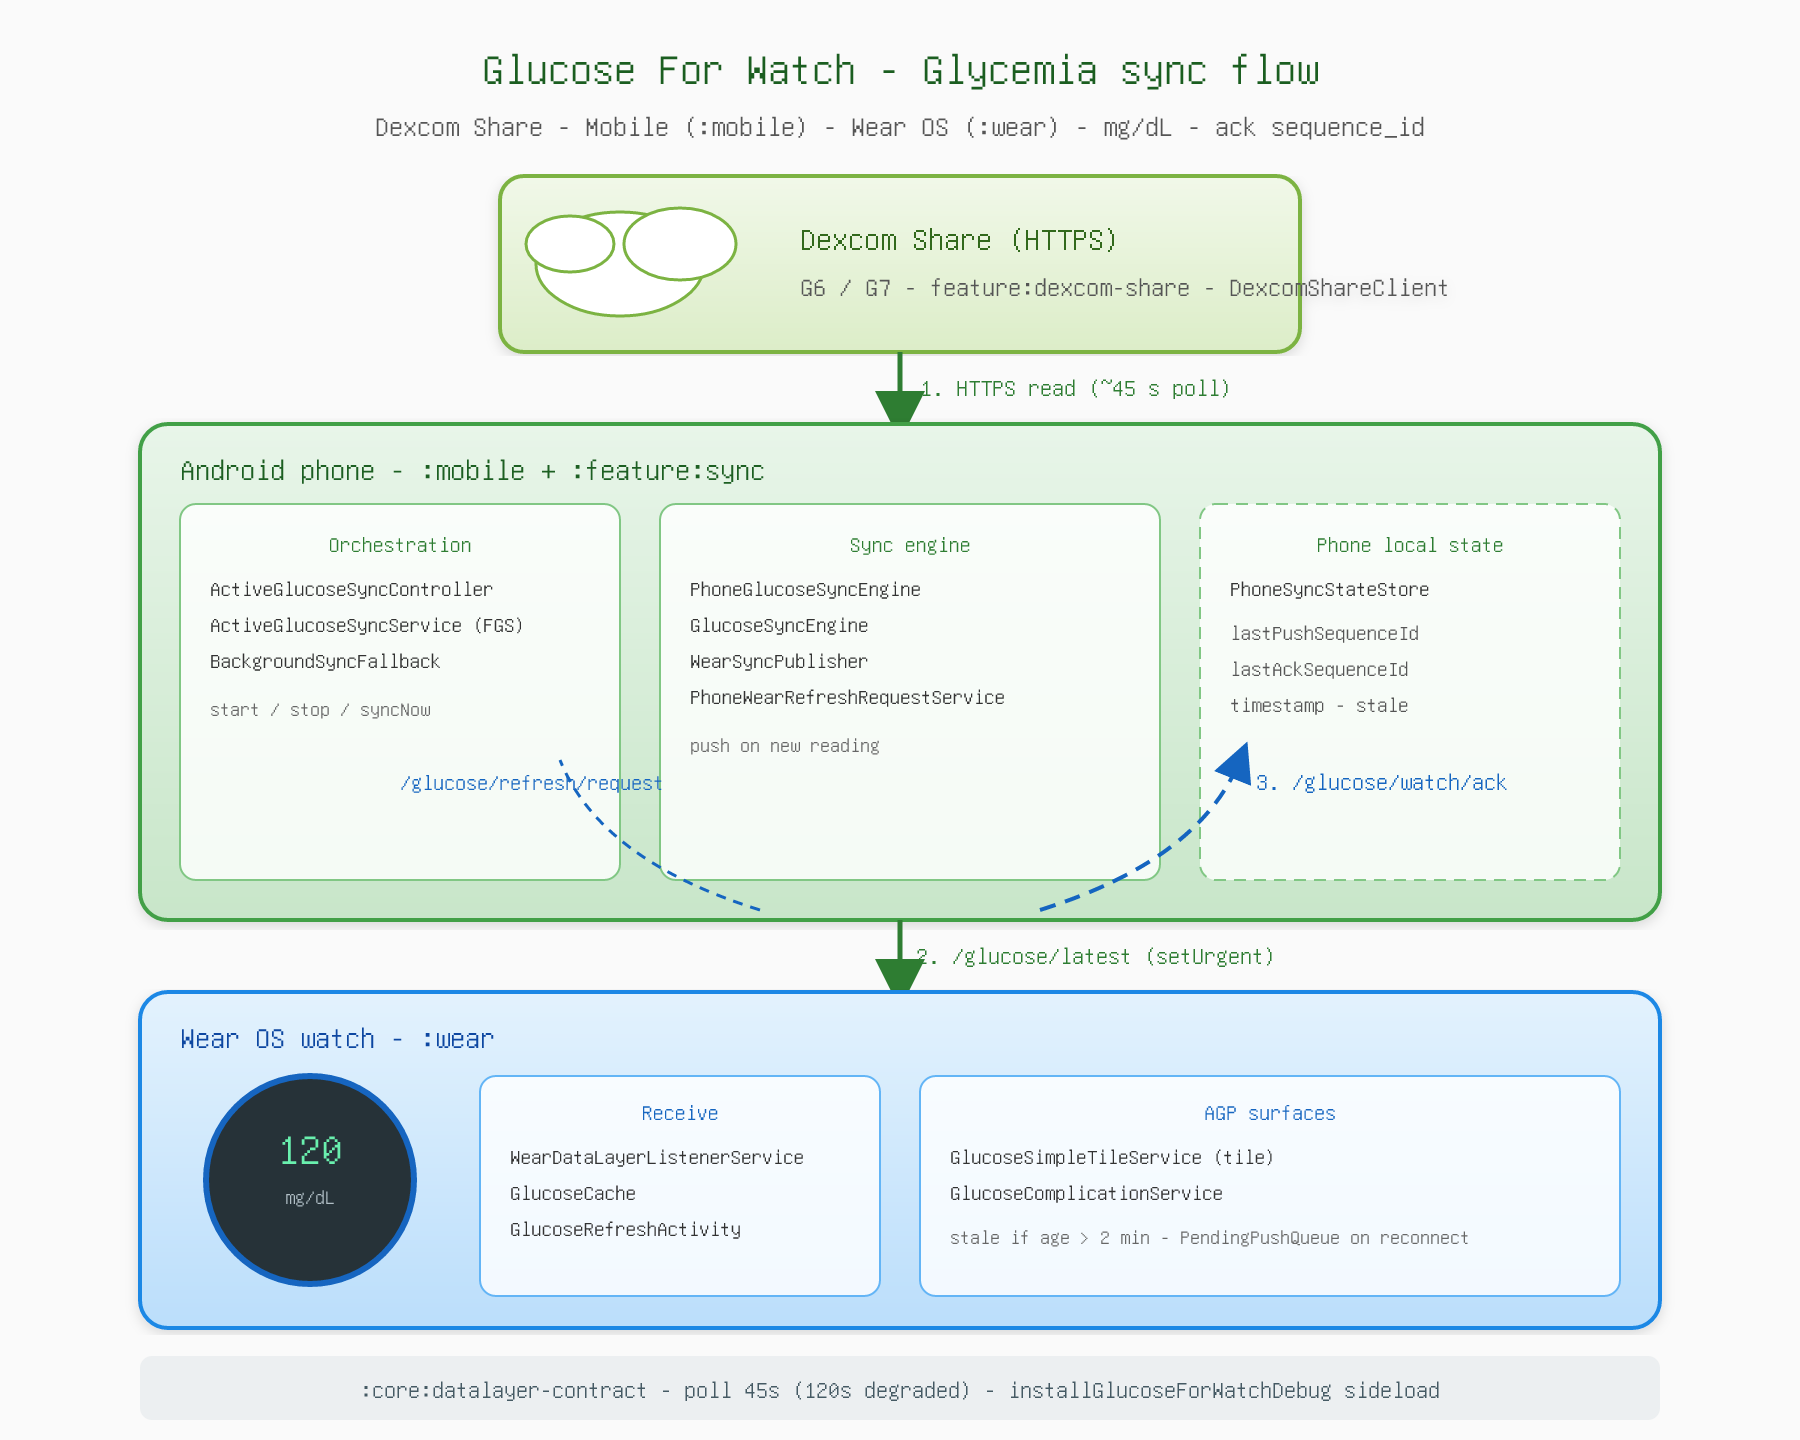
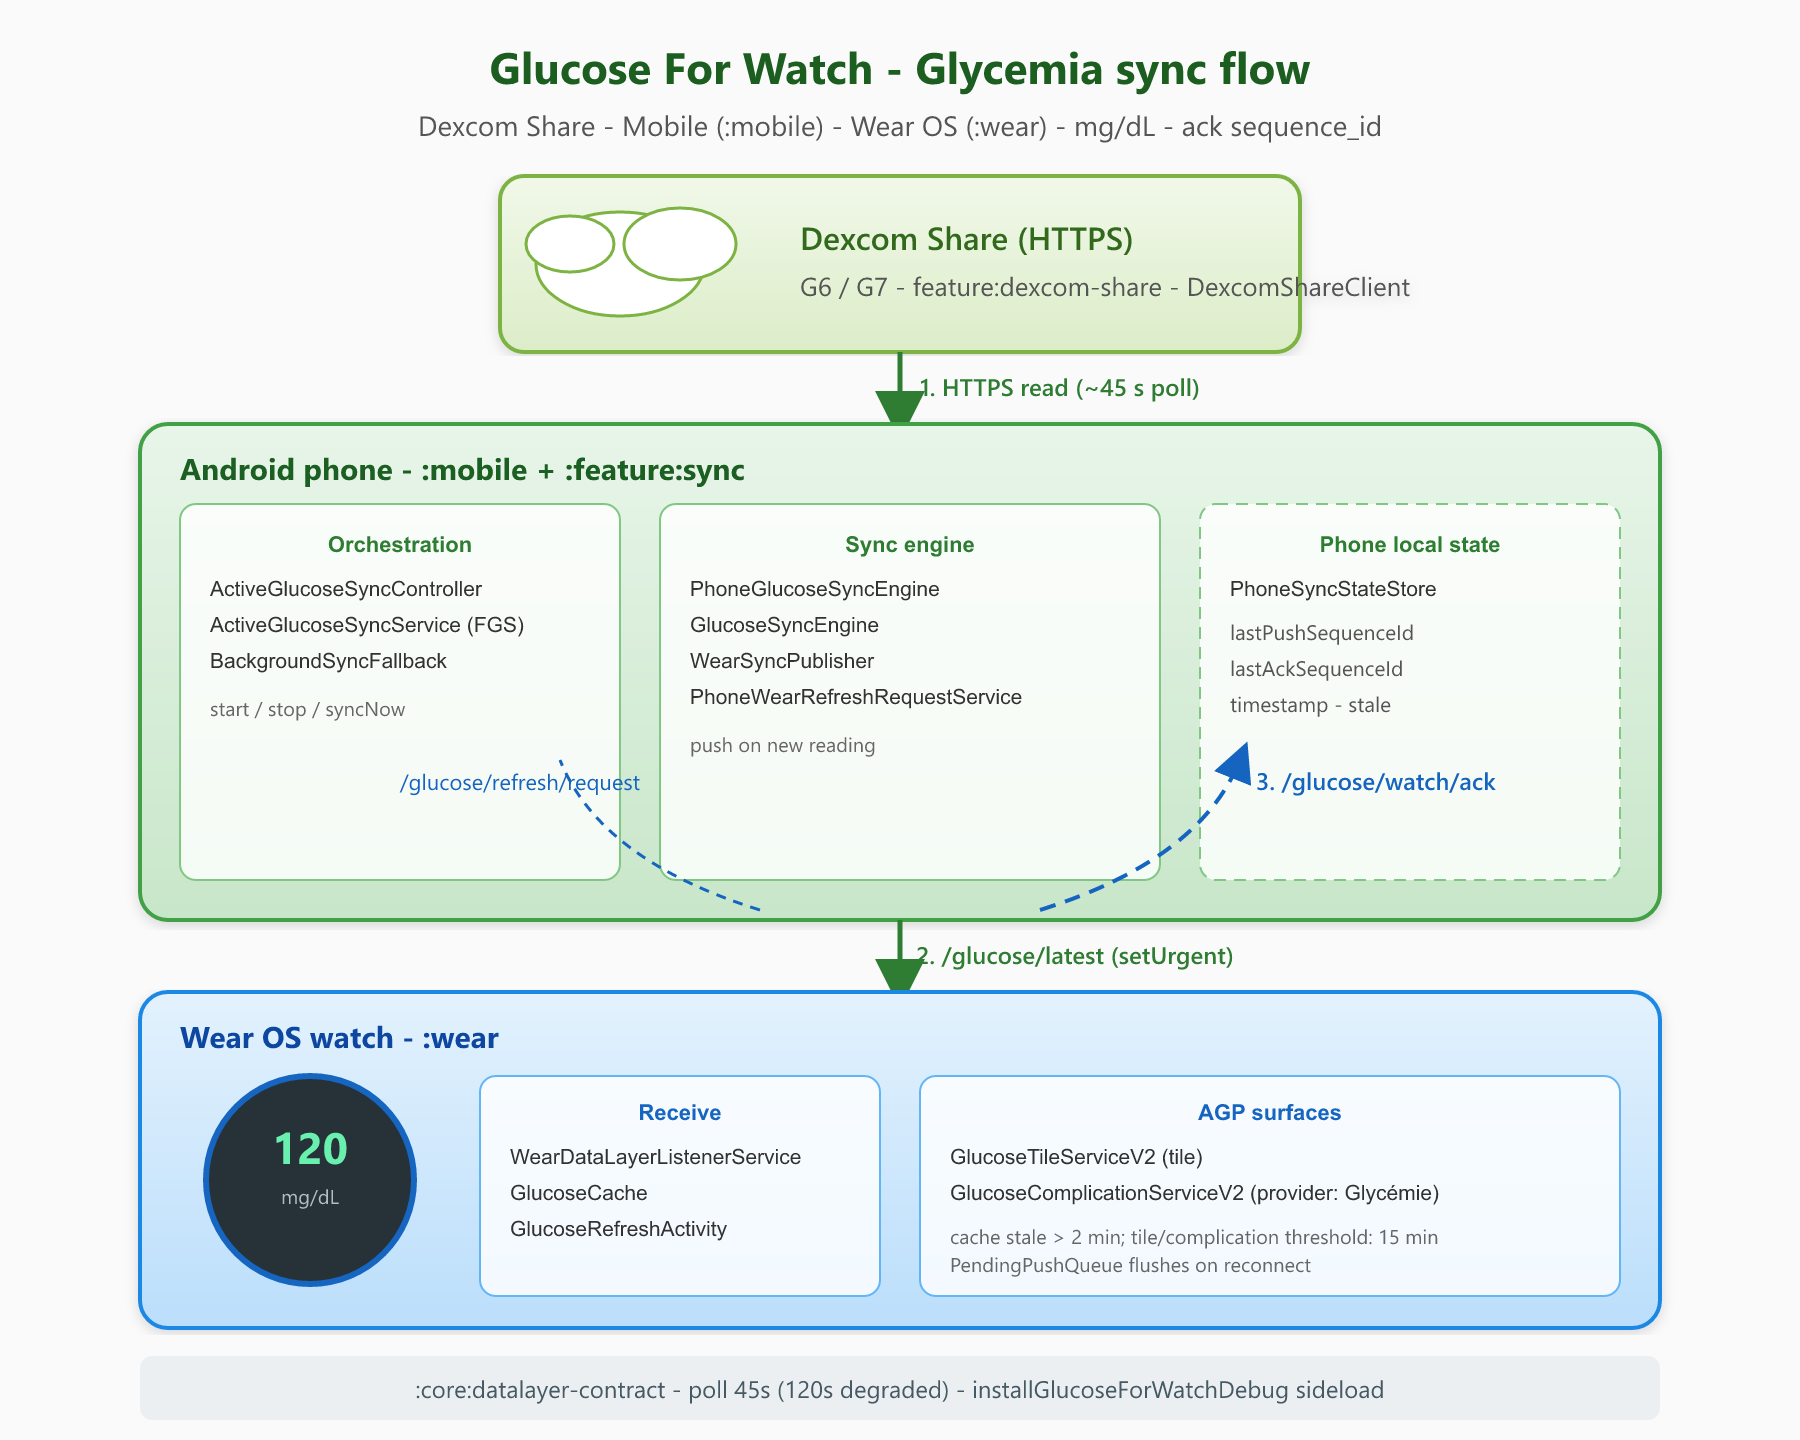
Refactor glucose watch components and update documentation
- Updated glucose range color definitions in SKILL.md for clarity.
- Revised sync health reviewer documentation to reflect changes in sync service behavior and timing.
- Modified toxy theme maintainer instructions to reference new tile chrome implementation.
- Bumped AGP and Gradle versions in README.md and setup documentation.
- Updated architecture diagrams and documentation to clarify sync flow and cache behavior.
- Enhanced user guide with detailed Dexcom Share account handling and error management.
- Refined complication and tile service implementations to improve user experience and consistency.
- Adjusted linting scripts to accommodate new file structures and naming conventions.
- Improved comments and documentation across various Kotlin files for better maintainability.

diff --git a/wear/src/main/java/com/glucoseforwatch/wear/tile/ToxyTileTheme.kt b/wear/src/main/java/com/glucoseforwatch/wear/tile/ToxyTileTheme.kt
@@ -8,22 +8,20 @@ import com.glucoseforwatch.wear.data.GlucoseSnapshot
 import kotlin.math.min
 
 /**
- * Chrome tokens and AGP glucose coloring for the Wear tile.
+ * Shared Wear surface-model colors and legacy layout tokens.
  *
- * Layout metrics adapt padding/typography to [screenWidthDp] and [screenShape].
- * Sync button and glucose/trend slots use **fixed** dp sizes so data changes
- * (value digits, trend presence, sync lock) do not shift the ProtoLayout.
+ * The ProtoLayout tile is rendered independently by [GlucoseTileChrome].
  *
  * Medical value colors come only from [AgpGlucoseColors] / [GlucoseRangeResolver]
  * — never Material primary / blue chrome.
  */
 @Keep
 object ToxyTileTheme {
-    /** Bump on every ProtoLayout / resource-map change to bust Wear tile resource cache. */
+    /** Legacy token; the active ProtoLayout cache version is [GlucoseTileChrome.RESOURCES_VERSION]. */
     const val RESOURCES_VERSION = "simple-tile-v22-GlucoseTileServiceV2-zero-ghost"
     const val FRESHNESS_INTERVAL_MS = 45_000L
     const val COMPLICATION_REFRESH_INTERVAL_MS = 15_000L
-    /** Clickable id — bumped with V2 provider to avoid stale click routing. */
+    /** Legacy click ID; the active tile uses [GlucoseTileChrome.SYNC_CLICK_ID]. */
     const val SYNC_CLICK_ID = "sync_v2"
 
     const val BACKGROUND = 0xFF0F1419.toInt()

diff --git a/mobile/src/main/java/com/glucoseforwatch/mobile/sync/ActiveGlucoseSyncService.kt b/mobile/src/main/java/com/glucoseforwatch/mobile/sync/ActiveGlucoseSyncService.kt
@@ -23,7 +23,11 @@ import kotlinx.coroutines.sync.Mutex
 import kotlinx.coroutines.sync.withLock
 import kotlin.math.min
 
-/** Foreground service polling Dexcom and pushing readings to the watch. */
+/**
+ * Foreground service polling Dexcom and pushing readings to the watch.
+ * Failed passes retry silently with exponential backoff before the failure
+ * policy surfaces a notification.
+ */
 class ActiveGlucoseSyncService : Service() {
     private val serviceScope = CoroutineScope(SupervisorJob() + Dispatchers.IO)
     private val syncMutex = Mutex()

diff --git a/wear/src/main/java/com/glucoseforwatch/wear/tile/GlucoseTileServiceV2.kt b/wear/src/main/java/com/glucoseforwatch/wear/tile/GlucoseTileServiceV2.kt
@@ -8,6 +8,10 @@ import com.glucoseforwatch.wear.data.GlucoseCache
 import com.google.common.util.concurrent.Futures
 import com.google.common.util.concurrent.ListenableFuture
 
+/**
+ * Serves the glucose tile from the Wear cache; the launcher preview icon is
+ * intentionally separate from this text-first tile content.
+ */
 class GlucoseTileServiceV2 : TileService() {
 
     override fun onTileRequest(requestParams: RequestBuilders.TileRequest): ListenableFuture<TileBuilders.Tile> {

diff --git a/feature/sync/src/main/java/com/glucoseforwatch/feature/sync/SyncFailurePolicy.kt b/feature/sync/src/main/java/com/glucoseforwatch/feature/sync/SyncFailurePolicy.kt
@@ -9,7 +9,7 @@ enum class SyncNotificationAction {
 /**
  * Decides whether a failed sync should surface a reconnect or interrupted notification.
  *
- * Auth failures need two consecutive AUTH errors; other failures need three in a row.
+ * Notify at exactly two consecutive AUTH errors or three consecutive sync failures.
  */
 object SyncFailurePolicy {
     fun decideNotificationAction(

diff --git a/feature/dexcom-share/src/main/java/com/glucoseforwatch/feature/dexcomshare/DexcomShareClient.kt b/feature/dexcom-share/src/main/java/com/glucoseforwatch/feature/dexcomshare/DexcomShareClient.kt
@@ -60,7 +60,8 @@ class DexcomShareException(
 /**
  * Fetches the latest glucose reading from Dexcom Share over HTTPS.
  *
- * Sessions are cached per account; readings older than two minutes are marked stale.
+ * Sessions are cached per account and renewed once when Dexcom reports expiry.
+ * Readings older than two minutes are marked stale.
  */
 
 class DexcomShareClient(

diff --git a/wear/src/main/java/com/glucoseforwatch/wear/complication/GlucoseComplicationServiceV2.kt b/wear/src/main/java/com/glucoseforwatch/wear/complication/GlucoseComplicationServiceV2.kt
@@ -15,6 +15,7 @@ import com.glucoseforwatch.wear.data.GlucoseCache
 import java.util.concurrent.TimeUnit
 import com.glucoseforwatch.wear.data.GlucoseSnapshot
 
+/** The sole registered glucose complication provider, labelled "Glycémie". */
 @Keep
 class GlucoseComplicationServiceV2 : ComplicationDataSourceService() {
 

diff --git a/toxy-ux-kit/tools/lint-agp-colors.py b/toxy-ux-kit/tools/lint-agp-colors.py
@@ -20,8 +20,10 @@ GLUCOSE_KT_GLOBS = [
     "mobile/src/main/java/com/glucoseforwatch/mobile/ui/HomeStateMapper.kt",
     "mobile/src/main/java/com/glucoseforwatch/mobile/ui/compose/HomeScreen.kt",
     "wear/src/main/java/com/glucoseforwatch/wear/tile/ToxyTileTheme.kt",
+    "wear/src/main/java/com/glucoseforwatch/wear/tile/GlucoseTileChrome.kt",
+    "wear/src/main/java/com/glucoseforwatch/wear/tile/GlucoseSimpleTileLayout.kt",
     "wear/src/main/java/com/glucoseforwatch/wear/tile/GlucoseTileServiceV2.kt",
-    "wear/src/main/java/com/glucoseforwatch/wear/complication/GlucoseComplicationService.kt",
+    "wear/src/main/java/com/glucoseforwatch/wear/complication/GlucoseComplicationServiceV2.kt",
     "wear/src/main/java/com/glucoseforwatch/wear/display/WearGlucoseSurfaceModel.kt",
     "wear/src/main/java/com/glucoseforwatch/wear/data/GlucoseCache.kt",
     "wear/src/main/java/com/glucoseforwatch/wear/ui/WearStatusScreen.kt",
@@ -31,6 +33,7 @@ GLUCOSE_KT_GLOBS = [
 REQUIRED_RESOLVER = {
     ROOT / "mobile/src/main/java/com/glucoseforwatch/mobile/ui/HomeStateMapper.kt": "GlucoseRangeResolver",
     ROOT / "wear/src/main/java/com/glucoseforwatch/wear/tile/ToxyTileTheme.kt": "GlucoseRangeResolver",
+    ROOT / "wear/src/main/java/com/glucoseforwatch/wear/tile/GlucoseTileChrome.kt": "GlucoseRangeResolver",
     ROOT / "wear/src/main/java/com/glucoseforwatch/wear/data/GlucoseCache.kt": "GlucoseRangeResolver",
 }
 

diff --git a/docs/dev/architecture.md b/docs/dev/architecture.md
@@ -18,8 +18,10 @@ Glucose For Watch syncs Dexcom Share glucose from a phone to a Wear OS companion
 | `:feature:dexcom-share` | Dexcom Share HTTP client |
 | `:feature:watch-install` | Embedded wear APK install (debug) |
 
-The phone app uses `com.glucoseforwatch.mobile` and the Wear app uses
-`com.glucoseforwatch.wear`, so both APKs can be installed independently.
+The modules have distinct source namespaces (`com.glucoseforwatch.mobile` and
+`com.glucoseforwatch.wear`), but both APKs currently use the application ID
+`com.glucoseforwatch.mobile`. Install the phone APK on the phone and the Wear
+APK on the watch; they are not two installable packages for the same device.
 
 ## Sync flow
 
@@ -54,8 +56,8 @@ All periodic sync scheduling goes through **`ActiveGlucoseSyncController`** — 
 
 | Mode | Interval |
 |------|----------|
-| Normal | 45 s |
-| Degraded | 120 s (low battery or `syncLimited`) |
+| Successful sync | 45 s (normal) or 120 s (low battery / `syncLimited`) |
+| Consecutive sync failures | Exponential backoff from 15 s, capped at 5 min |
 | Alarm fallback | 90 s |
 
 ### Manual refresh
@@ -69,9 +71,23 @@ All periodic sync scheduling goes through **`ActiveGlucoseSyncController`** — 
 
 - Phone keeps fetching Dexcom regardless of watch connectivity
 - Push fails silently when no connected nodes
-- Watch shows cached value, marked **stale** after 2 min
+- Dexcom readings and the Wear cache are flagged stale after 2 min
+- Tile visual staleness is based on reading age > 15 min; the complication uses
+  a placeholder when the reading is older than 15 min
 - `PendingPushQueue` flushes on reconnect; WorkManager catch-up as fallback
-- Unacked delivery: repush at 10/20/30 s (normal) or 20/45 s (degraded)
+- Unacked delivery: repush at 10/30/60/120 s (normal) or 20/45/90 s
+  (degraded)
+- Interrupted-sync notification appears after 3 consecutive failures;
+  Dexcom-auth notification appears after 2 consecutive authentication failures
+
+### Dexcom Share authentication
+
+The phone stores the user's Dexcom Share login details and region in encrypted
+preferences. `US` uses `share2.dexcom.com`; `OUS` uses
+`shareous1.dexcom.com`. A cached session is renewed once automatically when
+Dexcom reports it expired. Reading timestamps older than 2 minutes are flagged
+stale; that source/cache flag is distinct from the 15-minute Wear surface
+display thresholds above.
 
 ## Data Layer contract
 
@@ -96,7 +112,7 @@ Source: `core/datalayer-contract/.../GlucoseDataLayerContract.kt`
 | `delta` | int | Delta from previous |
 | `timestamp_epoch_ms` | long | Reading timestamp |
 | `sequence_id` | long | Monotonic push sequence |
-| `stale` | boolean | Age > threshold on watch |
+| `stale` | boolean | Dexcom/Wear cache reports the reading stale (over 2 min old) |
 | `displayUnit` | string | `MG_DL` or `MMOL_L` — display unit for tile/complication text (internal value stays mg/dL) |
 
 ### Ack keys
@@ -129,4 +145,5 @@ Spec: [toxy-ux-kit/spec/01-agp-medical-layer.md](../../toxy-ux-kit/spec/01-agp-m
 
 - Phone and watch values match
 - `lastAckSequenceId == lastPushSequenceId`
-- Stale indicator off when data is fresh (< 2 min)
+- Dexcom/Wear cache stale flag clears for fresh data (< 2 min)
+- Tile and complication apply their separate 15-minute display thresholds

diff --git a/docs/guide/user.md b/docs/guide/user.md
@@ -18,12 +18,22 @@ Install Glucose For Watch and see your Dexcom glucose on Wear OS (app, tile, com
 - Follower credentials (not the patient app login unless Share is configured)
 - Dexcom **G6 or G7** — see [dexcom.md](dexcom.md)
 - Wear OS watch paired with an **Android** phone
+- Phone and watch APKs are installed on their respective devices; both currently
+  use the Android application ID `com.glucoseforwatch.mobile`.
 
 ## Daily use
 
-- Glucose updates automatically every ~45 s when the watch is connected.
+- The phone checks for Dexcom updates every 45 s in normal conditions (every
+  120 s in low-battery / limited-sync mode); Dexcom readings themselves usually
+  arrive on Dexcom's own update cadence.
 - The phone keeps fetching from Dexcom when the watch is off-wrist; data catches up on reconnect.
-- Values use **AGP medical colors**: green in range, yellow/orange high, red low, grey trend when stale (> 2 min).
+- Values use **AGP medical colors**: green in range, red low, and yellow/orange
+  high. The Dexcom reading/Wear cache is flagged stale after 2 min; the tile
+  dims old readings after 15 min, while the complication switches to a
+  placeholder after 15 min.
+- Network failures retry silently with backoff. The interrupted-sync
+  notification is shown only after three consecutive failures; authentication
+  failures prompt reconnection after two consecutive failures.
 
 ### Phone home screen
 
@@ -41,6 +51,10 @@ Install Glucose For Watch and see your Dexcom glucose on Wear OS (app, tile, com
 | Number | Latest synced glucose (AGP-colored) |
 | Trend arrow | Direction of change |
 | Sync button | Request refresh from phone |
+
+The tile has no logo in its scrolling preview. The Wear app launcher icon uses
+the same logo as the phone app; the complication's picker icon also uses that
+logo.
 
 ### Complication
 
@@ -71,6 +85,9 @@ Bluetooth off, phone app killed by battery optimizer, or watch out of range. Ope
 ### Sync button does nothing
 
 Check Dexcom credentials, internet connectivity, and error messages. Restart the phone app.
+
+If you uninstall and reinstall the phone app, enter your Dexcom Share settings
+again; Android clears the app's encrypted local settings on uninstall.
 
 ### Dexcom authentication errors
 

diff --git a/docs/guide/dexcom.md b/docs/guide/dexcom.md
@@ -8,13 +8,19 @@ Glucose For Watch reads glucose through the **Dexcom Share HTTP API**. The proto
 |-------------|--------|
 | Dexcom Share | Enabled in official Dexcom app |
 | Account | Follower / Share credentials |
-| Region | **US** (`share2.dexcom.com`) or **OUS** (`shareous1.dexcom.com`) |
+| Region | Choose the account's matching region: **US** (`share2.dexcom.com`) or **OUS** (`shareous1.dexcom.com`) |
 | Phone | Internet for Dexcom fetch |
 | Watch | Wear OS paired with **Android** phone |
 
 ## G6 vs G7
 
 Same Share HTTP endpoints, mg/dL integers, trend tokens 1–7, LOW/HI sentinels.
+
+Select the same US/OUS region as the Dexcom account. The app does not infer the
+region from the username. Credentials and region are entered in the phone app
+and stored in encrypted preferences; they do not belong in `gradle.properties`.
+The build-time `dexcomShareApplicationId` is a protocol identifier, not a
+Dexcom account credential.
 
 ## Implementation
 
@@ -26,12 +32,21 @@ Same Share HTTP endpoints, mg/dL integers, trend tokens 1–7, LOW/HI sentinels.
 
 Default application ID: `d89443d2-327c-4a6f-89e5-496bbb0317db`
 
+The Share session is cached per account and renewed once automatically when
+Dexcom reports it expired. A transient network error is retried by the active
+sync service with exponential backoff (15 seconds up to 5 minutes). The
+interrupted-sync notification appears after three consecutive failures; the
+reconnect notification appears after two consecutive authentication failures.
+
 ## Not supported
 
 - Dexcom OAuth v3 official API
 - Direct BLE to sensor/transmitter
 - Insulin pump integration
-- User-selectable **mg/dL** or **mmol/L** display (phone hero + wear tile/complication). Dexcom Share API values stay mg/dL internally; AGP colors use mg/dL thresholds.
+
+Phone, tile, and complication display units can be selected as **mg/dL** or
+**mmol/L**. Dexcom Share values stay mg/dL internally; AGP colors use mg/dL
+thresholds.
 
 ## Medical note
 

diff --git a/toxy-ux-kit/spec/components/wear-tile.md b/toxy-ux-kit/spec/components/wear-tile.md
@@ -7,14 +7,12 @@
 
 ```
 ┌─────────────────────────┐
-│      [ToXY background]  │
+│      [black canvas]     │
 │                         │
 │         120             │  ← agp.glucose.* (by range)
 │       mg/dL  ↗          │  ← toxy text.secondary + agp trend
 │                         │
-│    ┌─────────────────┐  │
-│    │    ↻ Sync       │  │  ← toxy.accent icon, ≥48dp
-│    └─────────────────┘  │
+│       ↻ sync            │  ← clickable neutral status text
 └─────────────────────────┘
 ```
 
@@ -22,17 +20,24 @@
 
 | Element | Token |
 |---------|-------|
-| Background | `toxy.color.background.top` |
+| Background | Absolute black (`#000000`) |
 | Value | `agp.glucose.*` |
 | Unit | `toxy.color.text.secondary` |
 | Trend (fresh) | same AGP as value |
 | Trend (stale) | `agp.glucose.unknown` |
-| Sync button | `toxy.color.accent.default` |
+| Sync action | Neutral gray text (`#D1D5DB`); no filled button |
 
 ## Interaction
 
 - Sync button → `GlucoseRefreshActivity` → phone fetch
-- Freshness: `toxy.motion.tile.freshnessIntervalMs` (45 s)
+- Tile requests refresh at the 45 s cadence. It visually dims readings older
+  than 15 min; this is separate from the 2 min stale flag in the Dexcom/Wear
+  cache.
+- The current clickable status slot is 28 dp high. The 48 dp touch-target
+  recommendation below remains a design target and is not yet met by this tile.
+
+The scrolling tile preview is a plain black icon with no logo. The Wear app
+launcher icon and complication picker icon use the phone app logo.
 
 ## States
 

diff --git a/docs/dev/setup.md b/docs/dev/setup.md
@@ -5,8 +5,8 @@
 | Component | Version |
 |-----------|---------|
 | Android Studio | Recent stable |
-| Gradle wrapper | 9.4.1 |
-| Android Gradle Plugin | 9.2.1 |
+| Gradle wrapper | 9.6.1 |
+| Android Gradle Plugin | 9.3.3 |
 | Kotlin | 2.3.20 |
 | JDK (Gradle) | JBR 21 |
 | compileSdk | 36 |
@@ -28,12 +28,12 @@ gfw.adb.phone.serial=<phone_serial>
 gfw.adb.watch.serial=<watch_serial>
 ```
 
-Dexcom Share credentials in `gradle.properties` (never commit):
+Dexcom Share account credentials are entered in the phone app and stored in
+encrypted preferences. Do not put account credentials in Gradle properties.
+The optional build property below configures the Dexcom Share protocol
+application ID; it is unrelated to the account login or region:
 
 ```properties
-dexcomShareUsername=...
-dexcomSharePassword=...
-dexcomShareServer=US
 dexcomShareApplicationId=d89443d2-327c-4a6f-89e5-496bbb0317db
 ```
 
@@ -153,8 +153,9 @@ Cursor rule: `.cursor/rules/glucose-for-watch-dual-ide-wsl.mdc`
 
 Set **Gradle JDK** to embedded JBR (File → Settings → Build Tools → Gradle).
 
-Run configurations: `:mobile` (Android App), `:wear` (Wear OS). The phone uses
-`com.glucoseforwatch.mobile` and the Wear APK uses `com.glucoseforwatch.wear`.
+Run configurations: `:mobile` (Android App), `:wear` (Wear OS). The modules
+have distinct source namespaces, but both APKs currently use the application ID
+`com.glucoseforwatch.mobile`; install them on their respective phone and watch.
 
 Official refs: [Android Studio](https://developer.android.com/studio) · [AGP ↔ Gradle](https://developer.android.com/build/releases/gradle-plugin)
 
